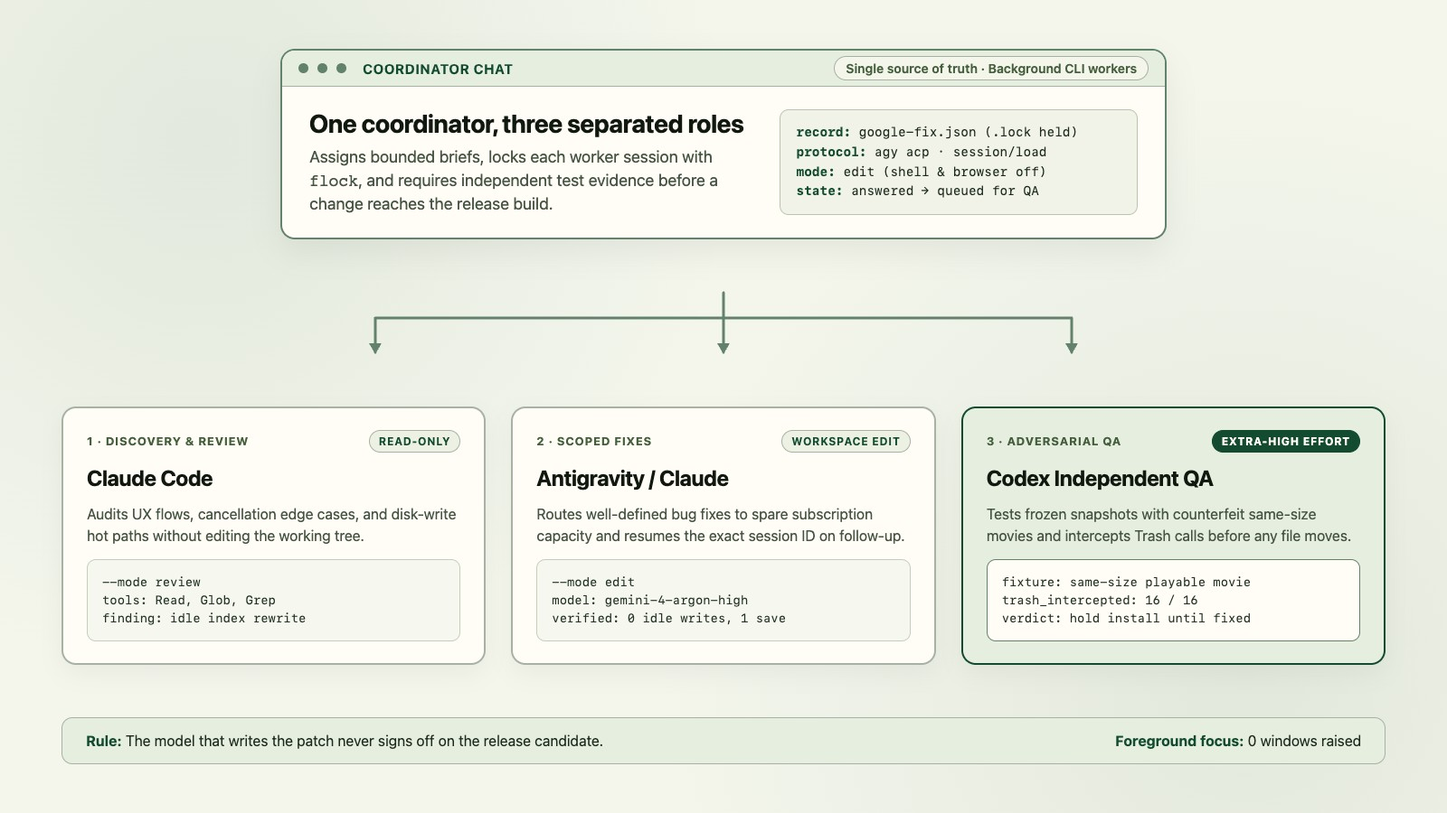
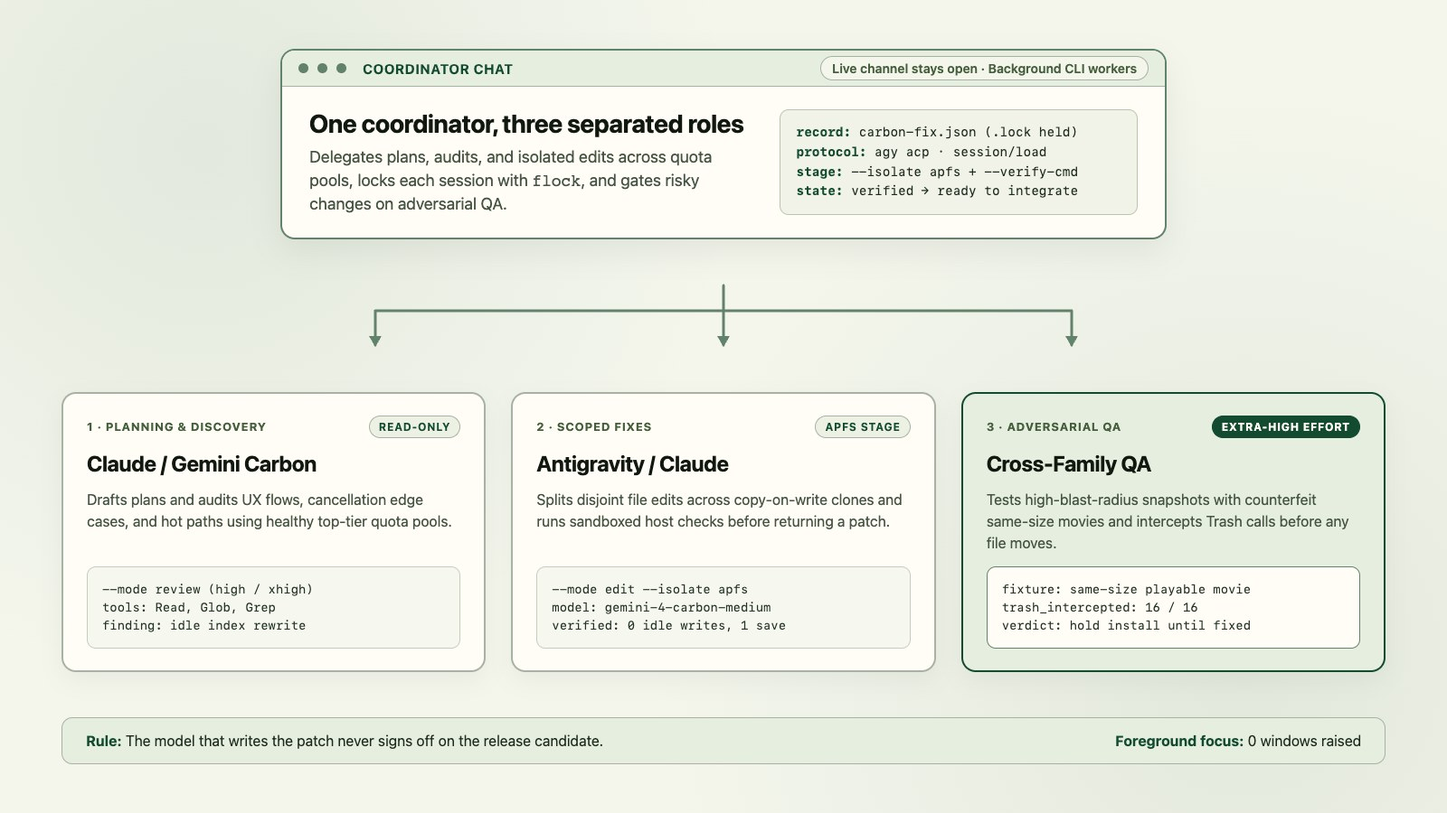
Update multi-agent orchestration post for quota pools, planning ladder and parallel rules

diff --git a/blog/multi-agent-orchestration.html b/blog/multi-agent-orchestration.html
@@ -17,6 +17,7 @@
   <meta property="og:image:width" content="1600">
   <meta property="og:image:height" content="900">
   <meta property="article:published_time" content="2026-11-09">
+  <meta property="article:modified_time" content="2026-11-11">
   <meta property="article:author" content="https://danielyakobian.com/">
   <meta name="twitter:card" content="summary_large_image">
   <title>Coordinating Claude, GPT and Gemini on one codebase | Daniel Yakobian</title>
@@ -35,6 +36,7 @@
     "mainEntityOfPage": "https://danielyakobian.com/blog/multi-agent-orchestration.html",
     "image": "https://danielyakobian.com/assets/writing/multi-agent-orchestration.jpg",
     "datePublished": "2026-11-09",
+    "dateModified": "2026-11-11",
     "inLanguage": "en",
     "author": { "@type": "Person", "@id": "https://danielyakobian.com/#person", "name": "Daniel Yakobian", "url": "https://danielyakobian.com/" },
     "publisher": { "@type": "Person", "@id": "https://danielyakobian.com/#person", "name": "Daniel Yakobian", "url": "https://danielyakobian.com/" },
@@ -58,34 +60,46 @@
     <a class="site-mark" href="https://www.goodreads.com/book/show/629.Zen_and_the_Art_of_Motorcycle_Maintenance" aria-label="Zen and the Art of Motorcycle Maintenance on Goodreads" title="Zen and the Art of Motorcycle Maintenance"><svg viewBox="0 0 192 192" aria-hidden="true" focusable="false"><path class="mark-leaf mark-back mark-r" d="M98.8 168.4C99.8 166.1 102.8 159 104.7 154.4C106.7 149.9 108.6 145.4 110.4 140.9C112.2 136.4 114 131.9 115.7 127.4C117.4 122.9 119 118.4 120.6 113.7C122.2 109.1 123.7 104.5 125 99.6C126.3 94.6 127.7 86.6 128.2 84C126.2 85.8 119.5 90.5 115.9 94.4C112.3 98.2 109.3 102.6 106.5 107.1C103.8 111.6 101.5 116.4 99.6 121.2C97.7 126.1 96.2 131.2 95.2 136.3C94.1 141.4 93.4 146.7 93.1 151.9C92.8 157.1 93.4 165 93.5 167.6Z"/><path class="mark-trace" d="M98.8 168.4C99.8 166.1 102.8 159 104.7 154.4C106.7 149.9 108.6 145.4 110.4 140.9C112.2 136.4 114 131.9 115.7 127.4C117.4 122.9 119 118.4 120.6 113.7C122.2 109.1 123.7 104.5 125 99.6C126.3 94.6 127.7 86.6 128.2 84C126.2 85.8 119.5 90.5 115.9 94.4C112.3 98.2 109.3 102.6 106.5 107.1C103.8 111.6 101.5 116.4 99.6 121.2C97.7 126.1 96.2 131.2 95.2 136.3C94.1 141.4 93.4 146.7 93.1 151.9C92.8 157.1 93.4 165 93.5 167.6Z" stroke-dasharray="192 192" stroke-dashoffset="192"/><path class="mark-leaf mark-back mark-l" d="M93.2 168.4C92.2 166.1 89.2 159 87.3 154.4C85.3 149.9 83.4 145.4 81.6 140.9C79.8 136.4 78 131.9 76.3 127.4C74.6 122.9 73 118.4 71.4 113.7C69.8 109.1 68.3 104.5 67 99.6C65.7 94.6 64.3 86.6 63.8 84C65.8 85.8 72.5 90.5 76.1 94.4C79.7 98.2 82.7 102.6 85.5 107.1C88.2 111.6 90.5 116.4 92.4 121.2C94.3 126.1 95.8 131.2 96.8 136.3C97.9 141.4 98.6 146.7 98.9 151.9C99.2 157.1 98.6 165 98.5 167.6Z"/><path class="mark-trace" d="M93.2 168.4C92.2 166.1 89.2 159 87.3 154.4C85.3 149.9 83.4 145.4 81.6 140.9C79.8 136.4 78 131.9 76.3 127.4C74.6 122.9 73 118.4 71.4 113.7C69.8 109.1 68.3 104.5 67 99.6C65.7 94.6 64.3 86.6 63.8 84C65.8 85.8 72.5 90.5 76.1 94.4C79.7 98.2 82.7 102.6 85.5 107.1C88.2 111.6 90.5 116.4 92.4 121.2C94.3 126.1 95.8 131.2 96.8 136.3C97.9 141.4 98.6 146.7 98.9 151.9C99.2 157.1 98.6 165 98.5 167.6Z" stroke-dasharray="192 192" stroke-dashoffset="192"/><g class="mark-wrench"><path class="mark-steel" d="M87.2 155L87.2 86.5Q87.2 75.1 82.1 71.9A27.5 27.5 0 0 1 93 20.8L85.5 43.9A11.3 11.3 0 0 0 107 50.9L114.5 27.8A27.5 27.5 0 0 1 109.9 71.9Q104.8 75.1 104.8 86.5L104.8 155A8.8 8.8 0 0 1 87.2 155Z"/><path class="mark-trace" d="M87.2 155L87.2 86.5Q87.2 75.1 82.1 71.9A27.5 27.5 0 0 1 93 20.8L85.5 43.9A11.3 11.3 0 0 0 107 50.9L114.5 27.8A27.5 27.5 0 0 1 109.9 71.9Q104.8 75.1 104.8 86.5L104.8 155A8.8 8.8 0 0 1 87.2 155Z" stroke-dasharray="404 404" stroke-dashoffset="404"/><path class="mark-groove" d="M96 83.2V155"/><path class="mark-trace" d="M96 83.2V155" stroke-dasharray="74 74" stroke-dashoffset="74"/></g><path class="mark-leaf mark-mid mark-r" d="M98.6 169.8C100.4 168.5 106 164.6 109.6 162.3C113.1 160 116.7 158 120.2 155.9C123.7 153.9 127.1 152.1 130.6 150.2C134.1 148.3 137.5 146.5 141.1 144.5C144.7 142.6 148.3 140.9 152.3 138.7C156.2 136.5 162.6 132.7 164.7 131.5C162.3 130.7 155.2 127.5 150.3 126.9C145.5 126.3 140.3 126.8 135.5 127.8C130.6 128.8 125.8 130.6 121.4 132.9C117 135.2 112.8 138.2 109.2 141.6C105.6 144.9 102.3 148.9 99.7 153C97.1 157.2 94.6 164.1 93.6 166.4Z"/><path class="mark-trace" d="M98.6 169.8C100.4 168.5 106 164.6 109.6 162.3C113.1 160 116.7 158 120.2 155.9C123.7 153.9 127.1 152.1 130.6 150.2C134.1 148.3 137.5 146.5 141.1 144.5C144.7 142.6 148.3 140.9 152.3 138.7C156.2 136.5 162.6 132.7 164.7 131.5C162.3 130.7 155.2 127.5 150.3 126.9C145.5 126.3 140.3 126.8 135.5 127.8C130.6 128.8 125.8 130.6 121.4 132.9C117 135.2 112.8 138.2 109.2 141.6C105.6 144.9 102.3 148.9 99.7 153C97.1 157.2 94.6 164.1 93.6 166.4Z" stroke-dasharray="175 175" stroke-dashoffset="175"/><path class="mark-leaf mark-mid mark-l" d="M93.4 169.8C91.6 168.5 86 164.6 82.4 162.3C78.9 160 75.3 158 71.8 155.9C68.3 153.9 64.9 152.1 61.4 150.2C57.9 148.3 54.5 146.5 50.9 144.5C47.3 142.6 43.7 140.9 39.7 138.7C35.8 136.5 29.4 132.7 27.3 131.5C29.7 130.7 36.8 127.5 41.7 126.9C46.5 126.3 51.7 126.8 56.5 127.8C61.4 128.8 66.2 130.6 70.6 132.9C75 135.2 79.2 138.2 82.8 141.6C86.4 144.9 89.7 148.9 92.3 153C94.9 157.2 97.4 164.1 98.4 166.4Z"/><path class="mark-trace" d="M93.4 169.8C91.6 168.5 86 164.6 82.4 162.3C78.9 160 75.3 158 71.8 155.9C68.3 153.9 64.9 152.1 61.4 150.2C57.9 148.3 54.5 146.5 50.9 144.5C47.3 142.6 43.7 140.9 39.7 138.7C35.8 136.5 29.4 132.7 27.3 131.5C29.7 130.7 36.8 127.5 41.7 126.9C46.5 126.3 51.7 126.8 56.5 127.8C61.4 128.8 66.2 130.6 70.6 132.9C75 135.2 79.2 138.2 82.8 141.6C86.4 144.9 89.7 148.9 92.3 153C94.9 157.2 97.4 164.1 98.4 166.4Z" stroke-dasharray="175 175" stroke-dashoffset="175"/><path class="mark-leaf mark-front mark-l" d="M93.4 168.6C92.5 167.4 89.6 163.6 87.8 161.1C86.1 158.6 84.4 156.2 82.9 153.8C81.3 151.3 79.9 148.9 78.6 146.4C77.3 143.8 76.1 141.3 75 138.6C73.9 135.9 72.9 133.2 72.1 130.1C71.3 127 70.7 121.6 70.4 119.8C72 120.5 77.2 122.2 80.1 124C82.9 125.8 85.3 128.2 87.5 130.6C89.7 133 91.6 135.8 93.1 138.7C94.7 141.5 95.9 144.6 96.8 147.7C97.7 150.9 98.3 154.2 98.6 157.5C98.8 160.7 98.4 165.7 98.4 167.4Z"/><path class="mark-trace" d="M93.4 168.6C92.5 167.4 89.6 163.6 87.8 161.1C86.1 158.6 84.4 156.2 82.9 153.8C81.3 151.3 79.9 148.9 78.6 146.4C77.3 143.8 76.1 141.3 75 138.6C73.9 135.9 72.9 133.2 72.1 130.1C71.3 127 70.7 121.6 70.4 119.8C72 120.5 77.2 122.2 80.1 124C82.9 125.8 85.3 128.2 87.5 130.6C89.7 133 91.6 135.8 93.1 138.7C94.7 141.5 95.9 144.6 96.8 147.7C97.7 150.9 98.3 154.2 98.6 157.5C98.8 160.7 98.4 165.7 98.4 167.4Z" stroke-dasharray="122 122" stroke-dashoffset="122"/><path class="mark-leaf mark-front mark-r" d="M98.4 168.7C99.3 167.6 102.2 164.3 103.9 162.1C105.6 159.9 107.3 157.8 108.8 155.7C110.3 153.6 111.7 151.5 113 149.2C114.3 147 115.5 144.8 116.6 142.4C117.7 140 118.7 137.6 119.6 134.8C120.4 131.9 121.2 127 121.6 125.4C120 126 115.1 127.1 112.4 128.5C109.6 130 107.3 132 105.1 134.1C103 136.2 101.1 138.6 99.6 141.2C98 143.7 96.7 146.5 95.8 149.4C94.8 152.2 94.1 155.2 93.8 158.2C93.5 161.2 93.8 165.8 93.8 167.4Z"/><path class="mark-trace" d="M98.4 168.7C99.3 167.6 102.2 164.3 103.9 162.1C105.6 159.9 107.3 157.8 108.8 155.7C110.3 153.6 111.7 151.5 113 149.2C114.3 147 115.5 144.8 116.6 142.4C117.7 140 118.7 137.6 119.6 134.8C120.4 131.9 121.2 127 121.6 125.4C120 126 115.1 127.1 112.4 128.5C109.6 130 107.3 132 105.1 134.1C103 136.2 101.1 138.6 99.6 141.2C98 143.7 96.7 146.5 95.8 149.4C94.8 152.2 94.1 155.2 93.8 158.2C93.5 161.2 93.8 165.8 93.8 167.4Z" stroke-dasharray="112 112" stroke-dashoffset="112"/></svg></a>
     <main id="content">
       <article class="blog-article">
-        <header class="article-header"><p class="eyebrow">Notes on building software</p><h1>Coordinating Claude, GPT and Gemini on one codebase</h1><p class="article-meta"><a href="../" rel="author">Daniel Yakobian</a> · <time datetime="2026-11-09">November 9, 2026</time></p></header>
+        <header class="article-header"><p class="eyebrow">Notes on building software</p><h1>Coordinating Claude, GPT and Gemini on one codebase</h1><p class="article-meta"><a href="../" rel="author">Daniel Yakobian</a> · <time datetime="2026-11-09">November 9, 2026</time> · Updated <time datetime="2026-11-11">November 11, 2026</time></p></header>
         <div class="article-body">
           <p>While preparing the 1.2.1 update for <a href="https://danielyaa5.github.io/cloud-media-shrinker/">Cloud Media Shrinker</a>, I had six separate agent threads open across three providers. Two of them had nearly identical titles, one bug had already been fixed in a different chat, and I was spending too much time copying test results between windows.</p>
           <figure class="article-figure">
-            <img class="line-art" src="../assets/writing/multi-agent-orchestration.webp" width="1600" height="900" alt="Diagram of a coordinator chat dispatching bounded tasks to three separate lanes: Claude Code for read-only discovery, Antigravity or Claude for workspace edits, and Codex for independent QA">
+            <img class="line-art" src="../assets/writing/multi-agent-orchestration.webp" width="1600" height="900" alt="Diagram of a coordinator chat dispatching bounded tasks to three separate lanes: read-only planning and discovery, isolated APFS workspace edits, and cross-family adversarial QA">
             <figcaption>One coordinator chat tracks the release state and dispatches bounded briefs to provider workers without raising windows on my desktop.</figcaption>
           </figure>
-          <p>I turned one thread into the project coordinator and built a small local orchestration skill (<a href="https://github.com/danielyaa5/orchestrate-agents"><code>orchestrate-agents</code></a>) around it. Now I talk to the coordinator, and it routes discovery, implementation, and independent QA across Claude Code, Codex, and Google Antigravity.</p>
+          <p>I turned one thread into the project coordinator and built a small local orchestration skill (<a href="https://github.com/danielyaa5/orchestrate-agents"><code>orchestrate-agents</code></a>) around it. Now I talk to the coordinator, and it routes planning, discovery, implementation, and independent QA across Claude Code, Codex, and Google Antigravity.</p>
 
           <h2>Separating discovery, editing, and verification</h2>
           <p>When the same model writes a fix and writes the test for that fix, both often share the same blind spot. Giving those jobs to different models with different permissions caught bugs that single-session reviews missed.</p>
           <figure class="qa-figure" id="diagram-roles" aria-labelledby="roles-caption">
             <div class="qa-diagram">
-              <div class="context-source"><span class="diagram-kicker">Hub and spoke</span><strong>Coordinator chat</strong><span>Owns task routing · effort selection · release hold</span></div>
+              <div class="context-source"><span class="diagram-kicker">Hub and spoke</span><strong>Coordinator chat</strong><span>Owns routing · quota and effort selection · release hold</span></div>
               <div class="session-grid">
-                <div class="session-card"><h3>Discovery and code edit</h3><div class="desktop-box"><div class="window-bar" aria-hidden="true"><i></i><i></i><i></i></div><strong>Claude Code + Antigravity</strong><span>Read-only audits in one session; scoped file edits in another</span></div><p class="session-action">Proposes and patches</p></div>
-                <div class="session-card qa-session"><h3>Independent release QA</h3><div class="desktop-box"><div class="window-bar" aria-hidden="true"><i></i><i></i><i></i></div><strong>Codex at extra-high effort</strong><span>Tests frozen snapshots with adversarial fixtures</span></div><p class="session-action">Tries to break the patch</p></div>
+                <div class="session-card"><h3>Planning, discovery, and edits</h3><div class="desktop-box"><div class="window-bar" aria-hidden="true"><i></i><i></i><i></i></div><strong>Claude + Gemini 4 Carbon</strong><span>Read-only plans and audits in one session; isolated APFS edits in another</span></div><p class="session-action">Plans and patches</p></div>
+                <div class="session-card qa-session"><h3>Adversarial release QA</h3><div class="desktop-box"><div class="window-bar" aria-hidden="true"><i></i><i></i><i></i></div><strong>Cross-family high-effort QA</strong><span>Tests frozen snapshots on high-blast-radius changes</span></div><p class="session-action">Tries to break the patch</p></div>
               </div>
-              <div class="shared-hardware">Routing weighs task fit and remaining subscription allowance (<a href="https://github.com/danielyaa5/ai-usage">AI Usage</a>)</div>
+              <div class="shared-hardware">Routing weighs task fit, blast radius, and live subscription headroom (<a href="https://github.com/danielyaa5/ai-usage">AI Usage</a>)</div>
             </div>
             <figcaption id="roles-caption">Read-only reviews, file edits, and release QA run in separate sessions so the editor never grades its own homework.</figcaption>
           </figure>
           <p>Each provider gets the role that fits both its strengths and my remaining plan limits:</p>
           <ul>
-            <li><strong>Discovery and open-ended audits:</strong> Claude runs in read-only mode to inspect UX flows, performance hot paths, and existing tests. During the 1.2.1 review, it found a cancellation test that could pass even when the job finished normally and an index file that was rewriting 2.26 MB to disk on idle checks.</li>
-            <li><strong>Scoped implementation:</strong> Well-defined fixes with a clear reproduction go to Google Antigravity when I have spare Google allowance, or stay with the active Claude editor when a multi-step repair already has context in flight.</li>
-            <li><strong>Independent QA:</strong> A separate Codex session at extra-high effort receives a frozen snapshot of the candidate and tries to disprove the fix before anything is installed on my Mac or test phone.</li>
+            <li><strong>Planning and open-ended audits:</strong> Read-only sessions inspect UX flows, performance hot paths, and existing tests, and draft implementation plans before any file is touched. Antigravity exposes separate quota pools for Gemini (<code>gemini-4-carbon-*</code>, <code>gemini-4-argon-*</code>, <code>gemini-3.8-flash-*</code>) and for hosted Claude and OSS models (<code>claude-opus-5-5-*</code>, <code>claude-sonnet-5-5-*</code>), so the coordinator checks live headroom in <a href="https://github.com/danielyaa5/ai-usage">AI Usage</a> before picking a pool. For Claude runs up to <code>high</code> effort, it routes through Antigravity's Claude pool first when that bucket has more room than direct Claude Max, saving direct <code>claude</code> sessions for <code>xhigh</code> or <code>max</code> effort. During the 1.2.1 review, that read-only pass found a cancellation test that could pass even when the job finished normally and an index file that was rewriting 2.26 MB to disk on idle checks.</li>
+            <li><strong>Scoped implementation:</strong> Well-defined fixes with a clear reproduction and a host test command run in <code>gemini-4-carbon-medium</code> (or <code>gemini-4-argon-high</code>) inside an isolated APFS clone, seeded with the exact <code>--include-path</code> files returned by discovery so the editor doesn't burn tokens grepping the whole repository.</li>
+            <li><strong>Blast-radius-gated QA:</strong> Routine deterministic fixes (layout, copy, caching, pure unit-tested logic) settle on the host test runner and diff review without spending a separate LLM review pass. Destructive or stateful changes (Trash deletion, billing and credits, auth, migrations, concurrency) go to a cross-family session at high or extra-high effort (<code>GPT-6.1 Terra</code> at <code>xhigh</code> when Codex headroom allows, or Claude Opus testing a Gemini patch and vice versa) before anything is installed on my Mac or test phone.</li>
           </ul>
+          <p>For delegated planning, the coordinator picks the highest-intelligence model among pools with healthy quota remaining ahead of their weekly reset rather than draining a scarce bucket. After <a href="claude-code-max-effort.html">auditing my own Claude Code transcripts</a>, I set a three-rung effort ladder for planning workers that never uses <code>low</code> and steps up whenever a task sits between two levels:</p>
+          <div class="table-wrap" role="region" aria-labelledby="ladder-caption" tabindex="0">
+            <table class="data-table text-table">
+              <caption id="ladder-caption">Planning effort ladder</caption>
+              <thead><tr><th scope="col">Effort</th><th scope="col">When the coordinator picks it</th><th scope="col">Quota rule</th></tr></thead>
+              <tbody>
+                <tr><th scope="row">medium</th><td>Small, localized, reversible UI, copy, or wiring changes where the files and invariants are already known.</td><td>Used only when certainty is already high.</td></tr>
+                <tr><th scope="row">high</th><td>Default for real plans: multi-file edits, state or ranking logic, UX trade-offs, and competing requirements.</td><td>Routes to Gemini 4 Carbon or Antigravity's Claude Opus pool before direct Claude Max when headroom allows.</td></tr>
+                <tr><th scope="row">xhigh / max</th><td>Irreversible data safety, Trash or deletion guards, billing and entitlements, migrations, auth, or repeat bugs that survived a prior fix.</td><td>Uses direct Claude Code or Codex extra-high when those pools aren't near their weekly cap.</td></tr>
+              </tbody>
+            </table>
+          </div>
 
           <h2>Why independent QA mattered on a deletion check</h2>
           <p>Cloud Media Shrinker lets you compress a large video and then move the original to the Trash once the smaller copy is verified. A bug in that check can cost someone a video they care about, so I wanted the QA pass to be adversarial.</p>
@@ -104,23 +118,43 @@
           </figure>
           <p>If the editor had written its own verification test, the first size check would have passed and shipped. Having a second model try to construct a counterfeit file that satisfied the guard turned a plausible patch into a real guarantee.</p>
 
+          <h2>Keeping the coordinator free and scaling parallel work</h2>
+          <p>In the first version of the workflow, the coordinator still ran multi-step codebase searches and drafted plans inline. Whenever it spent three minutes reading ten files, my main chat turn was tied up and I couldn't talk to it.</p>
+          <p>Now the coordinator stays strictly lightweight: it reads the status board, checks live quota headroom, dispatches or messages workers, and answers questions from evidence already in hand. Even when I ask to review a plan before any code changes, it delegates read-only exploration and plan drafting to a background worker and hands control right back with a clickable link.</p>
+          <ul>
+            <li><strong>Inline model and effort tags on every handoff:</strong> Subagent pills in desktop apps often hide which model and thinking tier ran, so every worker link now carries its active <code>(Model · Effort)</code> inline (for example, <code>Savings Investigator (Carbon · High)</code>).</li>
+            <li><strong>Truthful worker titles across phases:</strong> Reusing an older worker for a new phase leaves its tab header stuck on yesterday's bug. Workers rename their chat titles when focus shifts, and on platforms that lock a subagent's title at creation, the coordinator spawns a fresh worker with an updated title and two or three lines of context instead of recycling a stale tab.</li>
+            <li><strong>Parallel reads and disjoint isolated writers:</strong> Independent read-only investigations fan out immediately, and post-edit verification suites (such as iOS Simulator UI tests, Mac test runners, and cross-family review) run concurrently instead of back to back. Parallel editors split across two or three isolated workspaces only when they own non-overlapping files; intertwined edits in the same file stay with a single writer so integration never turns into semantic merge cleanup.</li>
+            <li><strong>Hardware- and quota-scaled concurrency:</strong> On an M5 Max Mac Studio with healthy quota pools, the coordinator runs two to four concurrent workers and test suites so cores aren't sitting idle while models think. On a lighter M2 MacBook Air or when a weekly pool is tight before reset, it steps down to one or two.</li>
+          </ul>
+
           <h2>Keeping worker sessions resumable and out of the way</h2>
           <p>I didn't want orchestration to mean five terminal windows popping up on my screen or stealing keyboard focus while I work. Together with <a href="agent-qa-separate-macos-account.html">running visible GUI tests in a separate macOS account</a>, the local launcher script keeps background provider chats headless and locked to their workspace:</p>
-          <pre><code>python3 provider_chat.py start --provider google --model gemini-4-argon-high --effort high \
-  --mode edit --isolate apfs --verify-cmd "python3 -B -m unittest" \
-  --workspace "$workspace" --record "$records/google-fix.json" &lt; "$records/fix-brief.md"
+          <pre class="command" tabindex="0"><code># Read-only review via Antigravity's Claude pool (or --provider claude)
+python3 provider_chat.py start --provider google \
+  --model claude-opus-5-5-high --effort high --mode review \
+  --workspace "$workspace" \
+  --record "$records/opus-review.json" &lt; "$records/review-brief.md"
 
-python3 provider_chat.py start --provider claude --model claude-fable-5-2 --effort high \
-  --mode review --workspace "$workspace" --record "$records/claude-review.json" &lt; "$records/review-brief.md"
+# Isolated APFS edit in Gemini 4 Carbon with scoped files and host check
+python3 provider_chat.py start --provider google \
+  --model gemini-4-carbon-medium --effort medium \
+  --mode edit --isolate apfs \
+  --include-path src/format.py --include-path tests/test_format.py \
+  --verify-cmd "python3 -B -m unittest discover -s tests" \
+  --workspace "$workspace" \
+  --record "$records/carbon-fix.json" &lt; "$records/fix-brief.md"
 
-python3 provider_chat.py resume --record "$records/google-fix.json" &lt; "$records/retest-brief.md"</code></pre>
-          <p>While building the launcher, I ran into five practical traps:</p>
+python3 provider_chat.py resume \
+  --record "$records/carbon-fix.json" &lt; "$records/retest-brief.md"</code></pre>
+          <p>While building and using the launcher, I ran into six practical traps:</p>
           <ul>
-            <li><strong>One-shot print mode can lose context.</strong> When I tested resuming a Google session after the first process exited, ordinary print mode returned the same session ID but forgot a value supplied in the first turn. Switching the Google adapter to Antigravity's JSON-RPC Agent Client Protocol (<code>agy acp</code> with <code>session/new</code> and <code>session/load</code>) preserved the conversation across turns.</li>
-            <li><strong>Requested models need receipt verification.</strong> Passing a model flag on the command line doesn't prove the provider used it. The launcher inspects the turn receipt and token usage table after every run to confirm the exact model and thinking level that answered.</li>
+            <li><strong>One-shot print mode can lose context.</strong> When I tested resuming a Google session after the first process exited, ordinary print mode returned the same session ID but forgot a value supplied in the first turn. Switching the Google adapter to Antigravity's JSON-RPC Agent Client Protocol (<code>agy acp</code> with <code>session/new</code> and <code>session/load</code>) preserved the conversation across Gemini, Antigravity-hosted Claude, and OSS models while verifying both the model family and thinking level.</li>
+            <li><strong>Requested models need receipt verification.</strong> Passing a model flag on the command line doesn't prove the provider used it. The launcher inspects the session configuration and token usage table after every run to confirm the exact model and thinking level that answered.</li>
+            <li><strong>Full receipts bloat the coordinator's context.</strong> Dumping raw turn records and long test logs into the coordinator chat eats context fast. By default, <code>start</code> and <code>resume</code> print a compact JSON summary (<code>state</code>, <code>model</code>, <code>effort</code>, <code>patch</code>, <code>verification</code>, <code>answer</code>), saving full diagnostics for <code>--full-output</code> or <code>show --record</code>, and same-session repair prompts trim stdout and stderr to the final 3 KiB per stream.</li>
             <li><strong>Failed turns leave partial edits behind.</strong> The launcher holds an <code>fcntl.flock</code> lock on a sibling <code>.lock</code> file and writes receipts atomically. If a worker is interrupted mid-turn, the record enters an <code>inspect</code> state and refuses a blind retry until the coordinator checks the transcript and working tree.</li>
             <li><strong>Workers stay caged to file tools.</strong> In <code>review</code> mode, a worker only gets read, glob, and grep tools. In <code>edit</code> mode, it can modify regular files inside the assigned workspace, while shell commands, network fetches, <code>.git</code> mutations, and browser launches are denied.</li>
-            <li><strong>Isolated APFS clones and host-side verification.</strong> Passing <code>--isolate apfs</code> gives an editor an instant copy-on-write clone of the repo (<code>cp -c</code>), and <code>--verify-cmd</code> runs a bounded test command on the host after the turn, automatically resuming the same worker session with the failure output if a check breaks.</li>
+            <li><strong>Isolated APFS clones and sandboxed host verification.</strong> Passing <code>--isolate apfs</code> gives an editor an instant copy-on-write clone of the repo (<code>cp -c</code>), optionally narrowed with <code>--include-path</code>. Then <code>--verify-cmd</code> runs on the host under macOS <code>sandbox-exec</code> with a private temporary <code>HOME</code>, no network or credentials, and a guard that catches nested coordinator sandboxes cleanly, automatically resuming the same worker session with the failure tail if a check breaks.</li>
           </ul>
 
           <h2>Try the skill</h2>

diff --git a/assets/writing/source/multi-agent-orchestration.html b/assets/writing/source/multi-agent-orchestration.html
@@ -201,18 +201,18 @@
       <div class="bar">
         <span class="dot"></span><span class="dot"></span><span class="dot"></span>
         <span class="bar-title">Coordinator Chat</span>
-        <span class="bar-tag">Single source of truth · Background CLI workers</span>
+        <span class="bar-tag">Live channel stays open · Background CLI workers</span>
       </div>
       <div class="hub-body">
         <div class="hub-copy">
           <h1>One coordinator, three separated roles</h1>
-          <p>Assigns bounded briefs, locks each worker session with <code>flock</code>, and requires independent test evidence before a change reaches the release build.</p>
+          <p>Delegates plans, audits, and isolated edits across quota pools, locks each session with <code>flock</code>, and gates risky changes on adversarial QA.</p>
         </div>
         <div class="receipt-box">
-          <div><b>record:</b> google-fix.json (.lock held)</div>
+          <div><b>record:</b> carbon-fix.json (.lock held)</div>
           <div><b>protocol:</b> agy acp · session/load</div>
-          <div><b>mode:</b> edit (shell &amp; browser off)</div>
-          <div><b>state:</b> answered → queued for QA</div>
+          <div><b>stage:</b> --isolate apfs + --verify-cmd</div>
+          <div><b>state:</b> verified → ready to integrate</div>
         </div>
       </div>
     </div>
@@ -229,13 +229,13 @@
     <div class="lanes">
       <div class="lane">
         <div class="lane-kicker">
-          <span>1 · Discovery &amp; Review</span>
+          <span>1 · Planning &amp; Discovery</span>
           <span class="pill">Read-only</span>
         </div>
-        <h2>Claude Code</h2>
-        <p>Audits UX flows, cancellation edge cases, and disk-write hot paths without editing the working tree.</p>
+        <h2>Claude / Gemini Carbon</h2>
+        <p>Drafts plans and audits UX flows, cancellation edge cases, and hot paths using healthy top-tier quota pools.</p>
         <div class="lane-card">
-          --mode review<br>
+          --mode review (high / xhigh)<br>
           tools: Read, Glob, Grep<br>
           finding: idle index rewrite
         </div>
@@ -244,13 +244,13 @@
       <div class="lane">
         <div class="lane-kicker">
           <span>2 · Scoped Fixes</span>
-          <span class="pill">Workspace Edit</span>
+          <span class="pill">APFS Stage</span>
         </div>
         <h2>Antigravity / Claude</h2>
-        <p>Routes well-defined bug fixes to spare subscription capacity and resumes the exact session ID on follow-up.</p>
+        <p>Splits disjoint file edits across copy-on-write clones and runs sandboxed host checks before returning a patch.</p>
         <div class="lane-card">
-          --mode edit<br>
-          model: gemini-4-argon-high<br>
+          --mode edit --isolate apfs<br>
+          model: gemini-4-carbon-medium<br>
           verified: 0 idle writes, 1 save
         </div>
       </div>
@@ -260,8 +260,8 @@
           <span>3 · Adversarial QA</span>
           <span class="pill">Extra-High Effort</span>
         </div>
-        <h2>Codex Independent QA</h2>
-        <p>Tests frozen snapshots with counterfeit same-size movies and intercepts Trash calls before any file moves.</p>
+        <h2>Cross-Family QA</h2>
+        <p>Tests high-blast-radius snapshots with counterfeit same-size movies and intercepts Trash calls before any file moves.</p>
         <div class="lane-card">
           fixture: same-size playable movie<br>
           trash_intercepted: 16 / 16<br>

diff --git a/blog/index.html b/blog/index.html
@@ -32,7 +32,7 @@
     "inLanguage": "en",
     "author": { "@type": "Person", "@id": "https://danielyakobian.com/#person", "name": "Daniel Yakobian", "url": "https://danielyakobian.com/" },
     "blogPost": [
-      { "@type": "BlogPosting", "headline": "Coordinating Claude, GPT and Gemini on one codebase", "url": "https://danielyakobian.com/blog/multi-agent-orchestration.html", "datePublished": "2026-11-09" },
+      { "@type": "BlogPosting", "headline": "Coordinating Claude, GPT and Gemini on one codebase", "url": "https://danielyakobian.com/blog/multi-agent-orchestration.html", "datePublished": "2026-11-09", "dateModified": "2026-11-11" },
       { "@type": "BlogPosting", "headline": "Which AI CLI can actually search the web?", "url": "https://danielyakobian.com/blog/ai-cli-web-search.html", "datePublished": "2026-11-09" },
       { "@type": "BlogPosting", "headline": "Does max effort pay off? I checked 1,037 of my Claude Code prompts", "url": "https://danielyakobian.com/blog/claude-code-max-effort.html", "datePublished": "2026-11-08" },
       {"@type": "BlogPosting", "headline": "Bypassing Bambu’s MQTT signature check by masquerading as Bambu Studio", "url": "https://danielyakobian.com/blog/bambu-headless-cli.html", "datePublished": "2026-10-26"},
